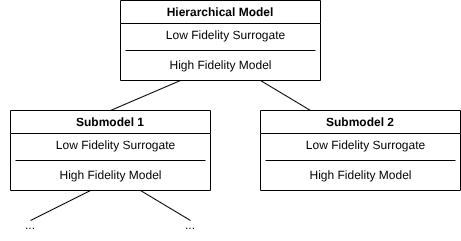
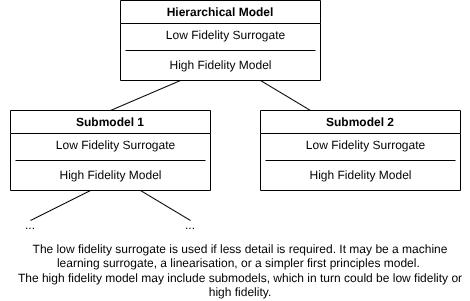
Updated Hierarchical modelling

Changed region(s): [[0.0, 0.0, 1.0, 0.7552], [0.0304, 0.7552, 1.0, 1.0], [0.6681, 0.6971, 0.9111, 0.7552]]

diff --git a/notes/pyomo.hierarchical-modelling.md b/notes/pyomo.hierarchical-modelling.md
@@ -2,20 +2,22 @@
 id: t596jttoggoomwdkmhktemv
 title: Hierarchical Modelling
 desc: ''
-updated: 1780891074033
+updated: 1780957960899
 created: 1778276705805
 ---
 
-# Automatic fidelity selection for multi-scale process modelling
+# Adaptive fidelity selection for multi-scale process modelling
 
 This research investigates methods for automatically selecting the appropriate fidelity of process submodels during simulation and optimisation. The goal is to minimise computational cost while maintaining sufficient accuracy by dynamically determining which components of a system require detailed representation and which can be represented using simpler abstractions.
 
+# Background
 
 ![View of a country highways, city streets, and individual buildings in google maps.](assets/hierarchical-modelling-google-maps.drawio.png)
 
-There are different levels of detail we model an energy system at, depending on the size of our system boundary for a problem.
+Digital Twins typically combine vastly different model scales into one integrated world. Mapping systems are an example of this, where different levels of detail are seamlessly accessible based on the current scale.
+Likewise, there are different levels of detail we model an energy system at, depending on the size of our system boundary for a problem.
 
-- If we model a heat exchanger, we may decide that a 1-d discretised model is sufficient detail to assess it's performance and suitability.
+- If we model a heat exchanger, we may decide that a 1-d discretised model is sufficient detail to assess its performance and suitability.
 - If we model a heat pump, we made decide modelling the same heat exchanger using a log-mean-temperature difference approximation is sufficiently accurate.
 - When we model the heat pump as part of a utility system, we may simplify it to a COP performance curve or surrogate model.
 - In a regional model, the plant may be modelled as an electricity demand profile in response to price changes.
@@ -23,24 +25,34 @@ There are different levels of detail we model an energy system at, depending on 
 
 ![Various levels of process detail: Molecular properties, 1d unit operation, subsystem/ process section, plant/facility, region](assets/hierarchical-modelling.drawio.png)
 
-Each of these model scales can be represented in an Equation Oriented Model. Typically, each of these levels of fidelity are modelled completely seperately. A digital twin that allows us to view the system state across each of these levels could provide better insight into the constraints present on a larger or smaller scale that may be limiting factors in finding an optimal solution. A large, high-fidelity equation oriented model of a region could be built over time by many researchers, with different users choosing a level of detail and system boundary appropriate for their problem, and extract a sub-model they can use. This would also encourage collaboration and re-use across the modelling community.
+Each of these model scales can be represented in an Equation Oriented Model. Typically, each of these levels of fidelity are modelled completely seperately. 
+I present an alternative solution: An extremely large, high-fidelity equation oriented model of a region, built over time, combining the different simpler models into one. 
+For each case study, a modeller would choose a level of detail and system boundary appropriate for their problem, extracting a sub-model they can feasibly solve. 
+This would create a multi-level Digital Twin, and provide better insight into the constraints present on a larger or smaller scale that may be limiting factors in finding an optimal solution.
 
 # Plan
 
 The first part of this project would involve creating a framework to model multilevel problems.
-This can be done by decomposing the model into a hierarchical structure. At each level, a high-fidelity model is present, potentially with further sub-models, and a low-fidelity model is used to approximate the system when the detail is not required. The two models are designed in a way that they are interchangable in a larger system. My research would investigate how this would work across the different scales, and creating an architecture to do so in pyomo.
+This can be done by decomposing the model into a hierarchical structure. At each level, a high-fidelity model is present, potentially with further sub-models, and a low-fidelity model is used to approximate the system when the detail is not required. The two models are designed in a way that they are interchangable in a larger system. 
+My research would investigate how to build a system architecture that supports this, the properties and limitations of this architecture, and create an implementation of multilevel modelling in pyomo. OMLT could be used to automatically generate surrogates of the high-fidelity models.
 
 ![](assets/hierarchical-modelling-node.drawio.png)
 
 
-The second part would focus on automatically increasing fidelity of models in an optimisation problem. Improved convergence in optimisation problems could result from first optimising using low fidelity approximations, then increasing fidelity to further refine the objective. Automatic methods could be developed to identify which sub-models the objective is most sensitive to, so that higher fidelity models can be used in their place. Sub-models that the objective is not senstive to can be left low-fidelity, to reduce the mathematical complexity of solving.
+The second part would focus on automatically increasing fidelity of models in an optimisation problem. 
+Improved convergence in optimisation problems could result from first optimising using low fidelity approximations, then increasing fidelity to further refine the objective.
+Automatic methods could be developed to identify which sub-models the objective is most sensitive to, so that higher fidelity models can be used in their place. 
+Sub-models that the objective is not senstive to can be left low-fidelity, to reduce the mathematical complexity of solving.
+
+This would likely involve analysing the jacobian of the surrogate model or performing sensitivity analysis to determine if the objective is sufficiently senstive to warrant using a higher fidelity approximation. Heuristic methods could be developed or a secondary optimisation problem could be solved to minimise inaccuracies for a given level of model complexity.
 
 ![](assets/hierarchical-modelling-enable-tree.drawio.png)
 
 
 ## Related areas of research
 
+*Identifying the best style of low-fidelity model to use.* Where is it appropriate to use data-driven surrogate models? What is the best way to simplify or linearise a model?
+
 *Initialising Hierarchical Models.* Having a low-fidelity and high-fidelity model of each part of the system may help create reusable, standardised initialisation routines. This may improve solving reliability
 
 *Diagnosining problems in a multi-level model*. If a model fails to solve and we can identify which sub-model is the constraining factor, we can then inspect inside the sub-model to identify why it is a problem. We can also easily replace a sub-model with its approximation to see if there is some degeneracy or infeasibility in the sub-model that the approximation smooths over. This may make multi-level models more maintainable.
-